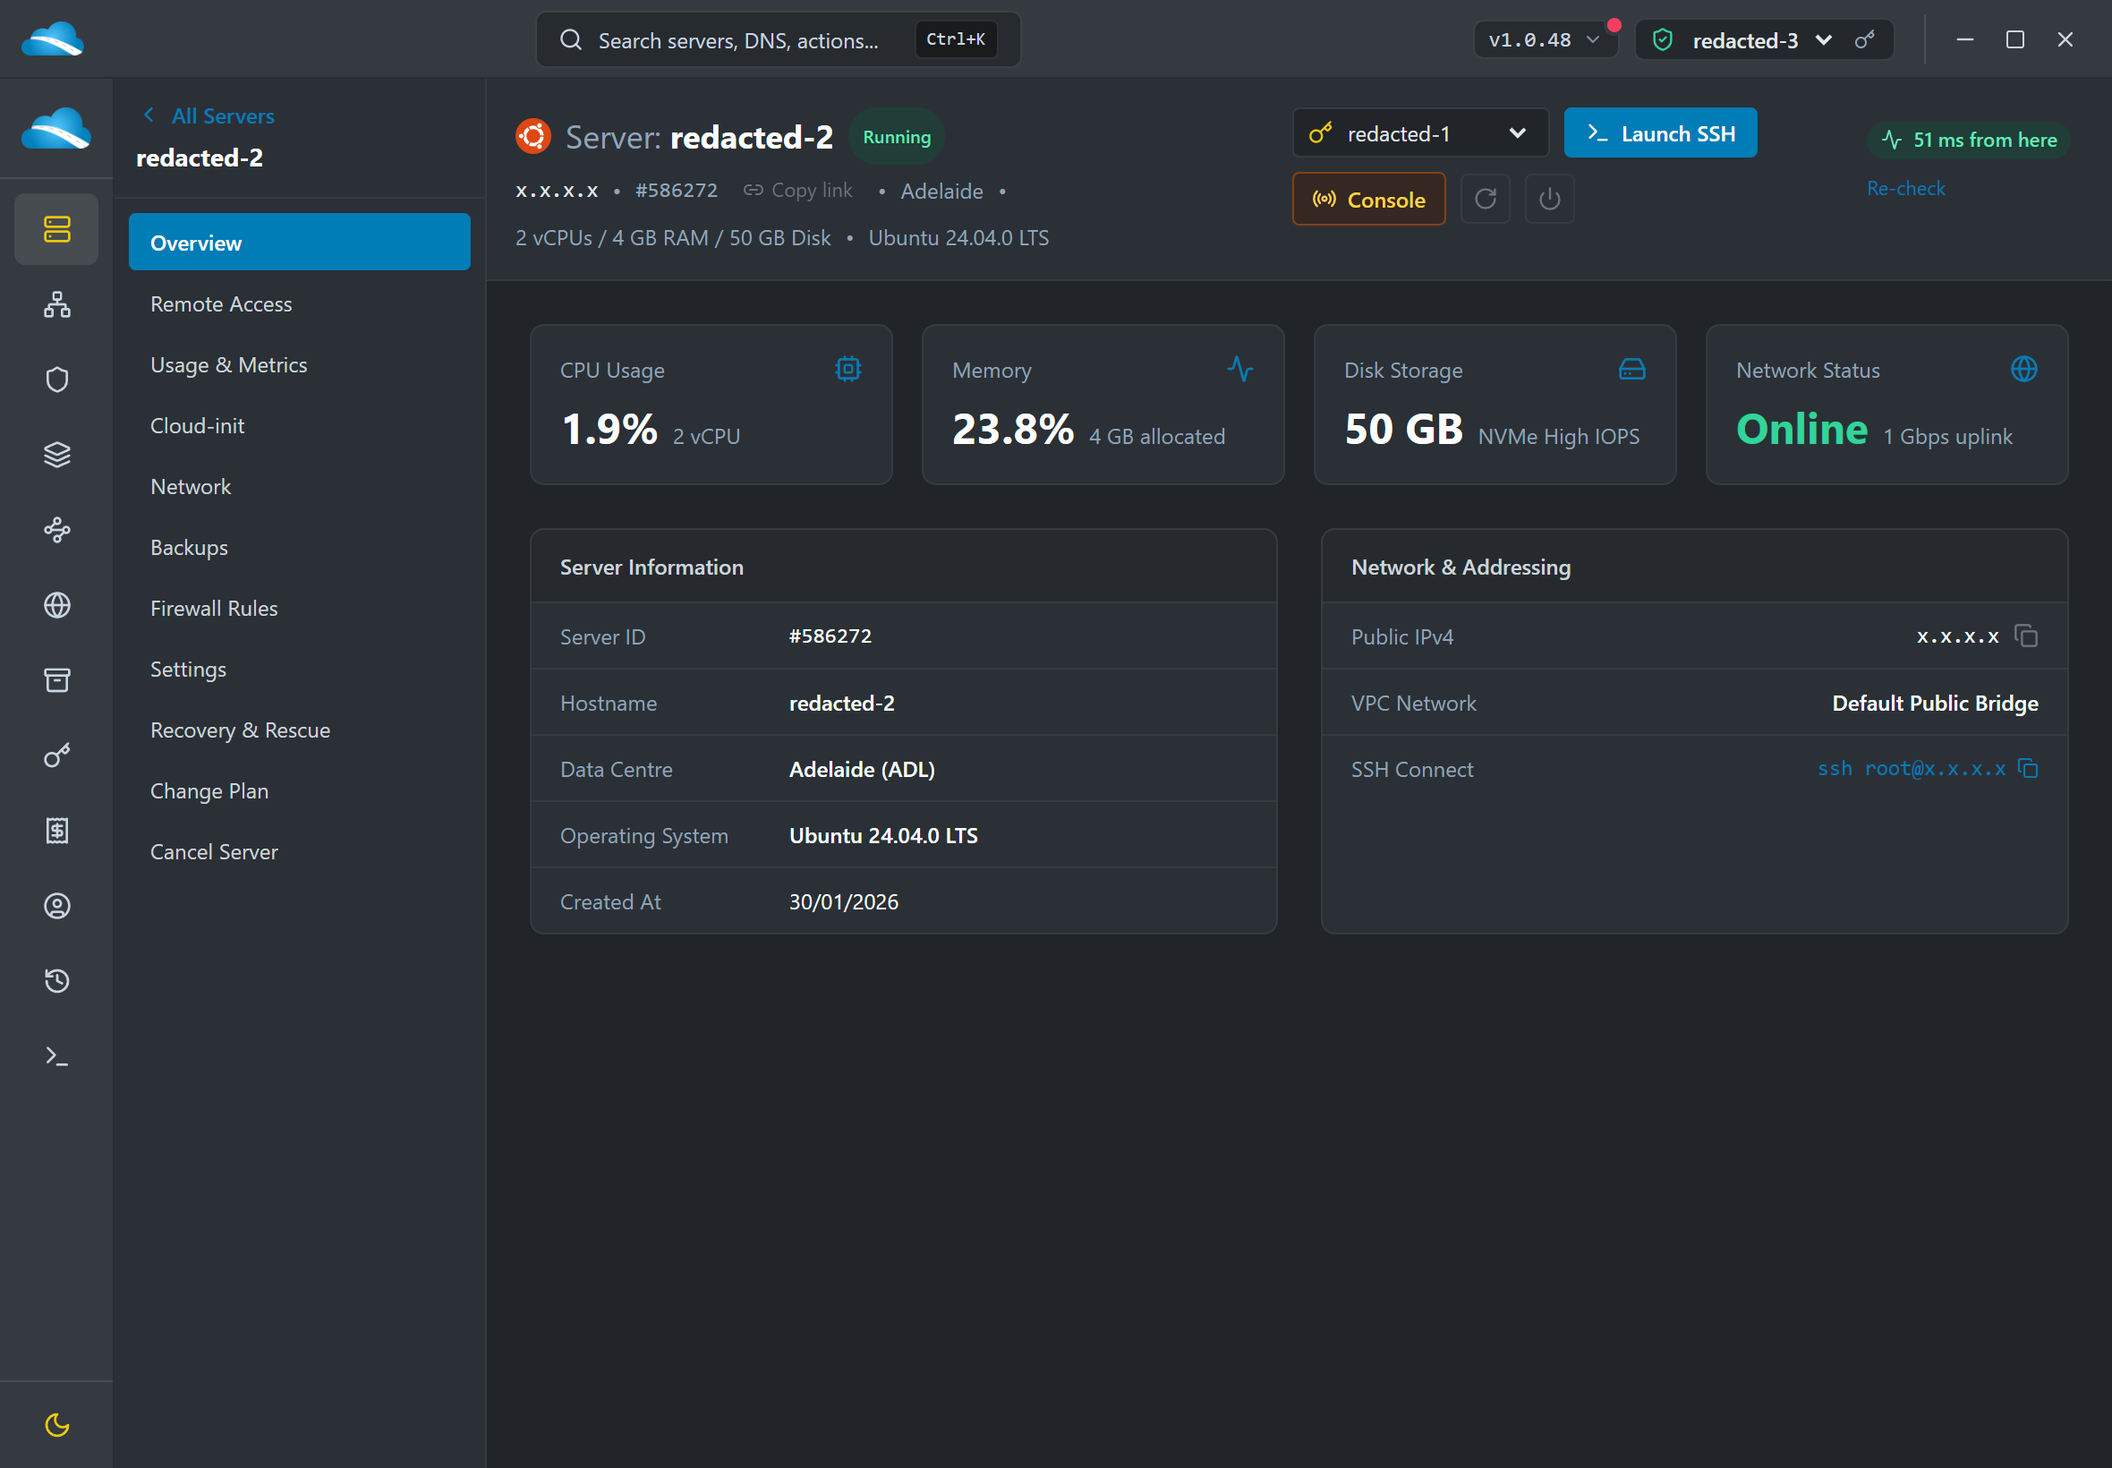
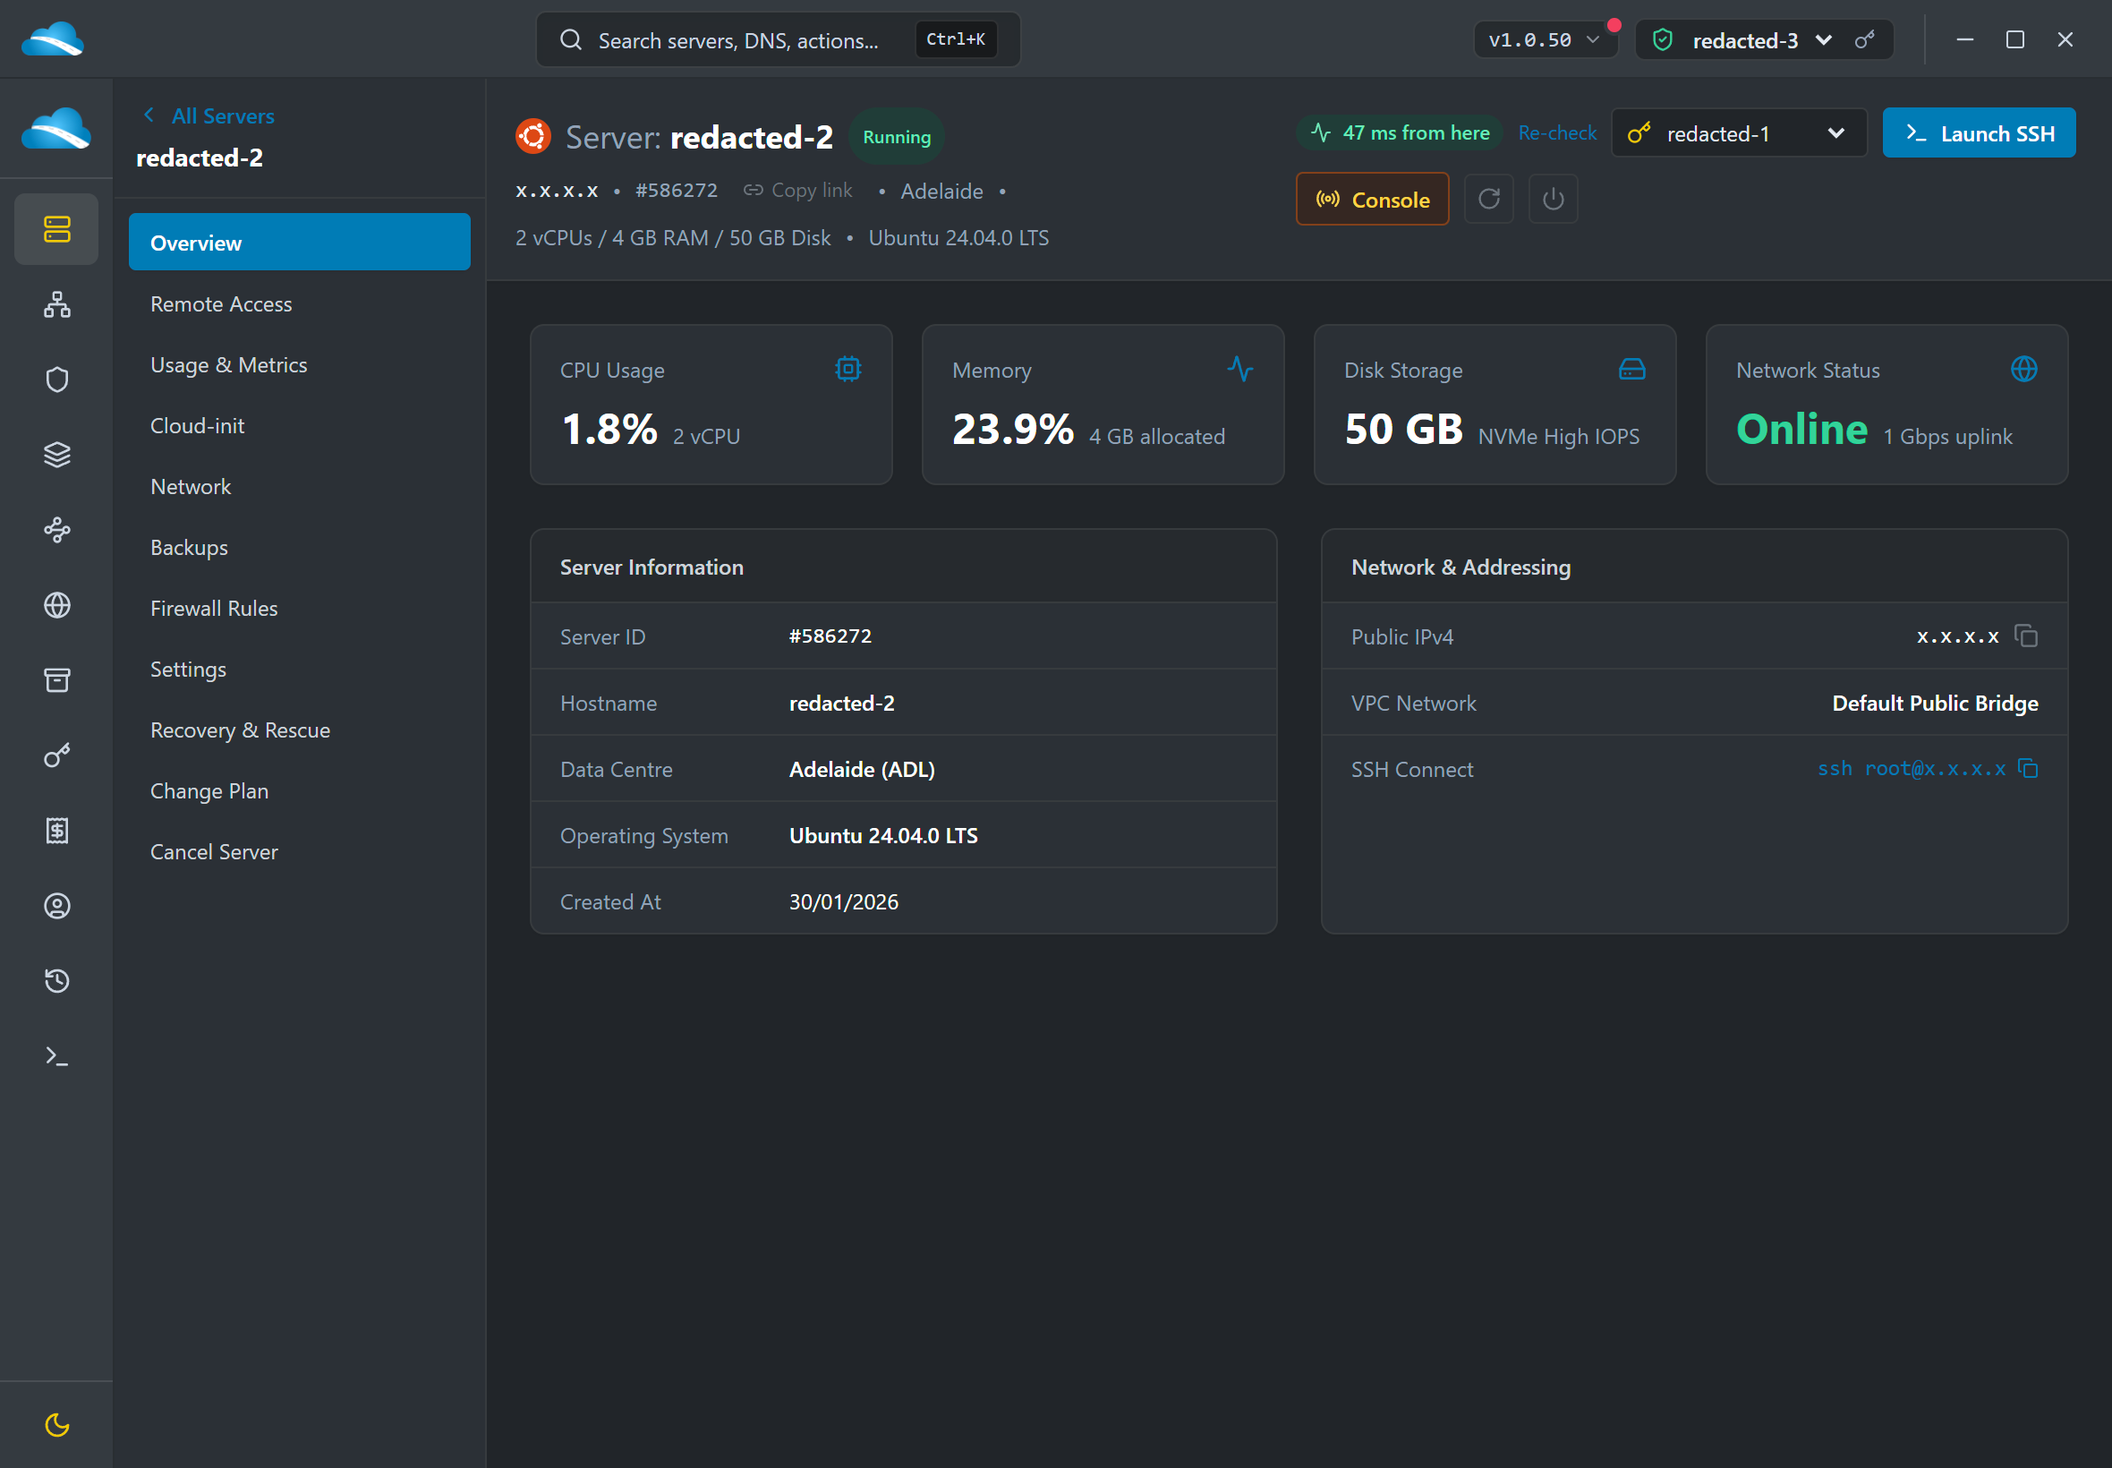
refactor(servers): lead the action cluster with the reachability chip
The chip sat to the right of the SSH key selector and Console, which put the
result after the buttons it qualifies. It leads now: you read whether the port
answers before you reach for Launch SSH.

Splitting it made that possible. The probe state lives in a `useReachability`
hook, with a one-line `ReachabilityChip` for the button row and a
`ReachabilityNotice` for the explanation, which can run to three lines and would
squeeze the buttons if it shared their row.

diff --git a/src/renderer/src/components/servers/ReachabilityBadge.tsx b/src/renderer/src/components/servers/ReachabilityBadge.tsx
@@ -3,7 +3,7 @@ import { Activity, AlertTriangle, Loader2, Route } from 'lucide-react'
 import type { TcpProbeResult, TracerouteHop } from '@shared/ipc-types'
 import type { BinaryLaneClient } from '../../api/client'
 import { useFirewallRules } from '../../api/queries'
-import { explainUnreachablePort, describeRule } from '../../lib/firewallMatch'
+import { explainUnreachablePort, describeRule, type FirewallVerdict } from '../../lib/firewallMatch'
 
 /**
  * Reachability from the user's own machine (FEATURES.md #11).
@@ -13,26 +13,38 @@ import { explainUnreachablePort, describeRule } from '../../lib/firewallMatch'
  * this reports what happened from here and does not dress it up as a verdict
  * about the server.
  *
- * The three outcomes are deliberately distinct, because they have different
- * fixes:
- *   - connected      -> latency
- *   - refused        -> something answered; the host is up, sshd is not
- *   - timeout        -> silently dropped, which is what a firewall does
+ * Split into a chip and a notice on purpose. The chip is one line and leads the
+ * action cluster it qualifies - "Launch SSH" is only worth clicking if 22 answers
+ * from here - while the explanation can run to three lines and would squeeze
+ * those buttons if it shared their row.
+ *
+ * The three probe outcomes are kept distinct because they have different fixes:
+ *   connected -> latency
+ *   refused   -> something answered; the host is up, sshd is not
+ *   timeout   -> silently dropped, which is what a firewall does
  *
  * Electron only. The Android build has no raw sockets and no child_process, so
- * `probeTcp` is absent there and this renders nothing rather than offering a
- * button that cannot work.
+ * `probeTcp` is absent there and both pieces render nothing rather than offering
+ * a control that cannot work.
  */
-export const ReachabilityBadge: React.FC<{
-  ip?: string
-  port?: number
-  client?: BinaryLaneClient | null
+export interface Reachability {
+  supported: boolean
+  result: TcpProbeResult | null
+  busy: boolean
+  port: number
+  probe: () => Promise<void>
+  verdict: FirewallVerdict
+  hops: TracerouteHop[] | null
+  tracing: boolean
+  runTrace: () => Promise<void>
+}
+
+export function useReachability(
+  ip: string | undefined,
+  port: number,
+  client?: BinaryLaneClient | null,
   serverId?: number
-  /** Opens the firewall view; offered only when a rule could explain the drop. */
-  onOpenFirewall?: () => void
-}> = ({ ip, port = 22, client, serverId, onOpenFirewall }) => {
-  // Only fetched once a timeout has actually happened, so a healthy server does
-  // not pull firewall rules it has no use for.
+): Reachability {
   const api = typeof window !== 'undefined' ? window.bldeskApi : undefined
   const supported = typeof api?.probeTcp === 'function'
 
@@ -58,123 +70,136 @@ export const ReachabilityBadge: React.FC<{
   }, [probe])
 
   const timedOut = !!result && !result.ok && result.error === 'timeout'
+  // Fetched only once a timeout has happened, so a healthy server never pulls
+  // firewall rules it has no use for.
   const rulesQuery = useFirewallRules(client ?? null, timedOut && serverId ? serverId : null)
   const verdict = explainUnreachablePort(timedOut ? rulesQuery.data : undefined, port)
 
-  if (!supported || !ip) return null
-
-  const runTrace = async (): Promise<void> => {
+  const runTrace = useCallback(async () => {
+    if (!supported || !ip) return
     setTracing(true)
     try {
       setHops((await api!.traceroute!(ip, 12)) ?? [])
     } finally {
       setTracing(false)
     }
-  }
+  }, [api, ip, supported])
 
-  const pill = 'inline-flex items-center gap-1.5 px-2 py-0.5 rounded-full text-[11px] font-medium'
+  return { supported, result, busy, port, probe, verdict, hops, tracing, runTrace }
+}
+
+const pill = 'inline-flex items-center gap-1.5 px-2 py-0.5 rounded-full text-[11px] font-medium'
+
+/** One line, leading the action buttons. */
+export const ReachabilityChip: React.FC<{ r: Reachability; ip?: string }> = ({ r, ip }) => {
+  if (!r.supported || !ip) return null
+  const { result, busy, port } = r
 
   return (
-    <div className="flex flex-col gap-1.5">
-      <div className="flex items-center gap-2 flex-wrap">
-        {busy && (
-          <span className={`${pill} bg-[#e9ecef] dark:bg-[#343a40] text-[#6c757d] dark:text-slate-400`}>
-            <Loader2 className="w-3 h-3 shrink-0 animate-spin" />
-            Checking port {port}…
+    <span className="inline-flex items-center gap-2">
+      {busy && (
+        <span className={`${pill} bg-[#e9ecef] dark:bg-[#343a40] text-[#6c757d] dark:text-slate-400`}>
+          <Loader2 className="w-3 h-3 shrink-0 animate-spin" />
+          Checking {port}…
+        </span>
+      )}
+
+      {!busy && result?.ok && (
+        <span
+          title={`TCP connect to port ${port} from this machine`}
+          className={`${pill} bg-emerald-100 text-emerald-700 dark:bg-emerald-900/40 dark:text-emerald-300`}
+        >
+          <Activity className="w-3 h-3 shrink-0" />
+          {result.latencyMs?.toFixed(0)} ms from here
+        </span>
+      )}
+
+      {!busy && result && !result.ok && (
+        <span
+          className={`${pill} ${
+            result.error === 'refused'
+              ? 'bg-amber-100 text-amber-700 dark:bg-amber-900/40 dark:text-amber-300'
+              : 'bg-rose-100 text-rose-700 dark:bg-rose-900/40 dark:text-rose-300'
+          }`}
+        >
+          <AlertTriangle className="w-3 h-3 shrink-0" />
+          {result.error === 'refused'
+            ? `Port ${port} refused`
+            : result.error === 'invalid-target'
+              ? 'Not probeable'
+              : `Port ${port} unreachable`}
+        </span>
+      )}
+
+      {!busy && (
+        <button type="button" onClick={() => void r.probe()} className="text-[11px] text-[#017cb6] hover:underline">
+          Re-check
+        </button>
+      )}
+    </span>
+  )
+}
+
+/**
+ * The explanation, on its own line below the buttons.
+ *
+ * A timeout is the only case a firewall rule can explain, and even then only if a
+ * rule actually covers the port - saying "check your firewall rules" when none do
+ * sends the reader hunting for something that does not exist, while the real
+ * cause sits in the guest or the path.
+ */
+export const ReachabilityNotice: React.FC<{ r: Reachability; onOpenFirewall?: () => void }> = ({
+  r,
+  onOpenFirewall
+}) => {
+  const { result, busy, port, verdict, hops, tracing } = r
+  if (!r.supported || busy || !result || result.ok || result.error !== 'timeout') return null
+
+  return (
+    <div className="mt-2 text-[11px] text-[#6c757d] dark:text-slate-400 space-y-1 max-w-3xl">
+      {verdict.kind === 'blocked' && (
+        <div className="flex items-start gap-2 flex-wrap">
+          <span>
+            A firewall rule drops this: <span className="font-mono">{describeRule(verdict.rule)}</span>
+            {verdict.rule.description ? ` — “${verdict.rule.description}”` : ''} (rule {verdict.index + 1}).
           </span>
-        )}
-
-        {!busy && result?.ok && (
-          <span
-            title={`TCP connect to port ${port} from this machine`}
-            className={`${pill} bg-emerald-100 text-emerald-700 dark:bg-emerald-900/40 dark:text-emerald-300`}
-          >
-            <Activity className="w-3 h-3 shrink-0" />
-            {result.latencyMs?.toFixed(0)} ms from here
-          </span>
-        )}
-
-        {!busy && result && !result.ok && (
-          <span
-            className={`${pill} ${
-              result.error === 'refused'
-                ? 'bg-amber-100 text-amber-700 dark:bg-amber-900/40 dark:text-amber-300'
-                : 'bg-rose-100 text-rose-700 dark:bg-rose-900/40 dark:text-rose-300'
-            }`}
-          >
-            <AlertTriangle className="w-3 h-3 shrink-0" />
-            {result.error === 'refused'
-              ? `Port ${port} refused`
-              : result.error === 'invalid-target'
-                ? 'Not probeable'
-                : `Port ${port} unreachable`}
-          </span>
-        )}
-
-        {!busy && (
-          <button
-            type="button"
-            onClick={() => void probe()}
-            className="text-[11px] text-[#017cb6] hover:underline"
-          >
-            Re-check
-          </button>
-        )}
-      </div>
-
-      {/*
-        * A timeout is the only case a firewall rule can explain, and even then
-        * only if a rule actually covers the port. Saying "check your firewall
-        * rules" when none do would send the reader hunting for something that
-        * does not exist, while the real cause sits in the guest or the path.
-        */}
-      {!busy && result && !result.ok && result.error === 'timeout' && (
-        <div className="text-[11px] text-[#6c757d] dark:text-slate-400 space-y-1">
-          {verdict.kind === 'blocked' && (
-            <div className="flex items-start gap-2 flex-wrap">
-              <span>
-                A firewall rule drops this: <span className="font-mono">{describeRule(verdict.rule)}</span>
-                {verdict.rule.description ? ` — “${verdict.rule.description}”` : ''} (rule {verdict.index + 1}).
-              </span>
-              {onOpenFirewall && (
-                <button type="button" onClick={onOpenFirewall} className="text-[#017cb6] hover:underline">
-                  Open firewall rules
-                </button>
-              )}
-            </div>
-          )}
-
-          {verdict.kind === 'no-rules' && (
-            <span>
-              No BinaryLane firewall rules are set for this server, so nothing is filtered at their end. The drop is
-              the server&apos;s own firewall or the path in between.
-            </span>
-          )}
-
-          {verdict.kind === 'no-matching-rule' && (
-            <span>
-              No BinaryLane rule blocks port {port}, so check the server&apos;s own firewall — ufw or nftables on
-              Linux, Windows Defender Firewall on Windows.
-            </span>
-          )}
-
-          {verdict.kind === 'unknown' && (
-            <span>Port {port} did not answer from this network. Nothing was refused, which is what a drop looks like.</span>
-          )}
-
-          <div className="flex items-center gap-3">
-            <button
-              type="button"
-              onClick={() => void runTrace()}
-              disabled={tracing}
-              className="inline-flex items-center gap-1 text-[#017cb6] hover:underline disabled:opacity-50"
-            >
-              {tracing ? <Loader2 className="w-3 h-3 animate-spin" /> : <Route className="w-3 h-3" />}
-              <span>{tracing ? 'Tracing…' : 'Trace route'}</span>
+          {onOpenFirewall && (
+            <button type="button" onClick={onOpenFirewall} className="text-[#017cb6] hover:underline">
+              Open firewall rules
             </button>
-          </div>
+          )}
         </div>
       )}
+
+      {verdict.kind === 'no-rules' && (
+        <span>
+          No BinaryLane firewall rules are set for this server, so nothing is filtered at their end. The drop is the
+          server&apos;s own firewall or the path in between.
+        </span>
+      )}
+
+      {verdict.kind === 'no-matching-rule' && (
+        <span>
+          No BinaryLane rule blocks port {port}, so check the server&apos;s own firewall — ufw or nftables on Linux,
+          Windows Defender Firewall on Windows.
+        </span>
+      )}
+
+      {verdict.kind === 'unknown' && (
+        <span>Port {port} did not answer from this network. Nothing was refused, which is what a drop looks like.</span>
+      )}
+
+      <div>
+        <button
+          type="button"
+          onClick={() => void r.runTrace()}
+          disabled={tracing}
+          className="inline-flex items-center gap-1 text-[#017cb6] hover:underline disabled:opacity-50"
+        >
+          {tracing ? <Loader2 className="w-3 h-3 animate-spin" /> : <Route className="w-3 h-3" />}
+          <span>{tracing ? 'Tracing…' : 'Trace route'}</span>
+        </button>
+      </div>
 
       {hops && hops.length > 0 && (
         <div className="mt-1 rounded border border-[#ced4da] dark:border-[#373b3e] bg-[#f8f9fa] dark:bg-[#212529] p-2 max-h-40 overflow-y-auto">
@@ -195,9 +220,7 @@ export const ReachabilityBadge: React.FC<{
         </div>
       )}
       {hops && hops.length === 0 && !tracing && (
-        <p className="text-[11px] text-[#6c757d] dark:text-slate-400">
-          Traceroute returned nothing — the system tool may be unavailable here.
-        </p>
+        <p>Traceroute returned nothing — the system tool may be unavailable here.</p>
       )}
     </div>
   )

diff --git a/src/renderer/src/components/servers/ServerDetails.tsx b/src/renderer/src/components/servers/ServerDetails.tsx
@@ -36,7 +36,7 @@ import { useTrackedActions } from '../../context/ActionTrackerContext'
 import { logoForDistribution } from '../../lib/distroHelper'
 import { VpcBadge } from '../vpcs/VpcBadge'
 import { describeStatus } from '../../lib/serverStatus'
-import { ReachabilityBadge } from './ReachabilityBadge'
+import { useReachability, ReachabilityChip, ReachabilityNotice } from './ReachabilityBadge'
 import { ChangePlanPanel } from './ChangePlanPanel'
 import { launchSsh } from '../../lib/launchSsh'
 import { copyDeepLink } from '../../lib/deeplinks'
@@ -184,6 +184,7 @@ export const ServerDetails: React.FC<ServerDetailsProps> = ({
   const primaryV6 = server.networks?.v6?.[0]?.ip_address
   const isRunning = server.status === 'active'
   const state = describeStatus(server.status)
+  const reach = useReachability(primaryV4, 22, client, server.id)
   const distroIcon = logoForDistribution(server.image?.distribution)
   const ramGB = (server.memory / 1024).toFixed(0)
 
@@ -382,6 +383,9 @@ export const ServerDetails: React.FC<ServerDetailsProps> = ({
 
           {/* Quick Action Controls */}
           <div className="flex flex-wrap items-center gap-2">
+            {/* Leads the cluster: the buttons beside it are only worth
+                clicking if the port answers from here. */}
+            <ReachabilityChip r={reach} ip={primaryV4} />
             {/* SSH Key Selector */}
             <div className="flex items-center gap-1 bg-[#f8f9fa] dark:bg-[#212529] px-2 py-1 border border-[#ced4da] dark:border-[#373b3e] rounded">
               <Key className="w-3.5 h-3.5 text-[#f1ca00] flex-shrink-0" />
@@ -459,17 +463,7 @@ export const ServerDetails: React.FC<ServerDetailsProps> = ({
             )}
           </div>
 
-          {/* Its own line: the message needs room to wrap without squeezing the
-              buttons, and keeping it out of that row stops them reflowing. */}
-          <div className="mt-2">
-            <ReachabilityBadge
-              ip={primaryV4}
-              port={22}
-              client={client}
-              serverId={server.id}
-              onOpenFirewall={() => onSelectSubTab?.('firewall')}
-            />
-          </div>
+          <ReachabilityNotice r={reach} onOpenFirewall={() => onSelectSubTab?.('firewall')} />
         </div>
       </div>
 
